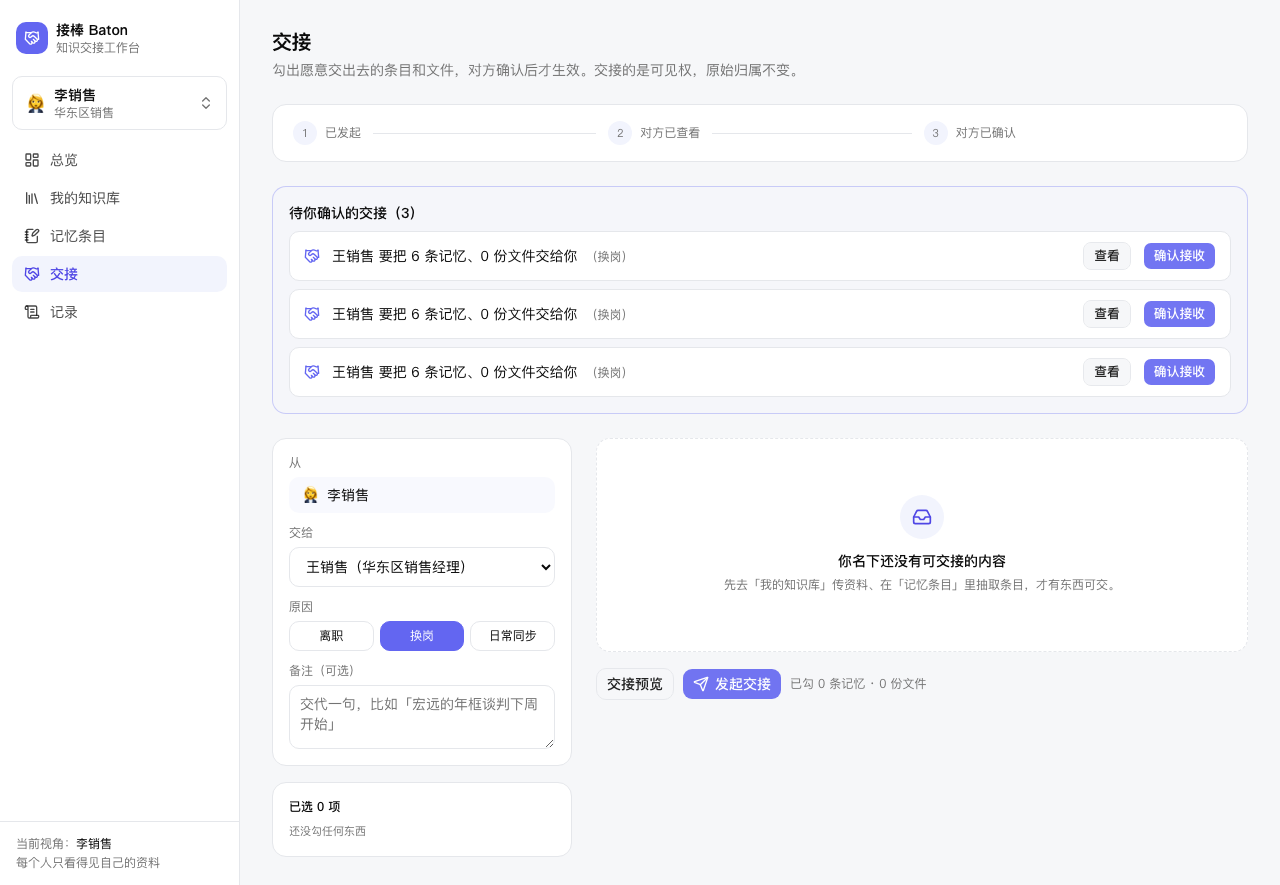
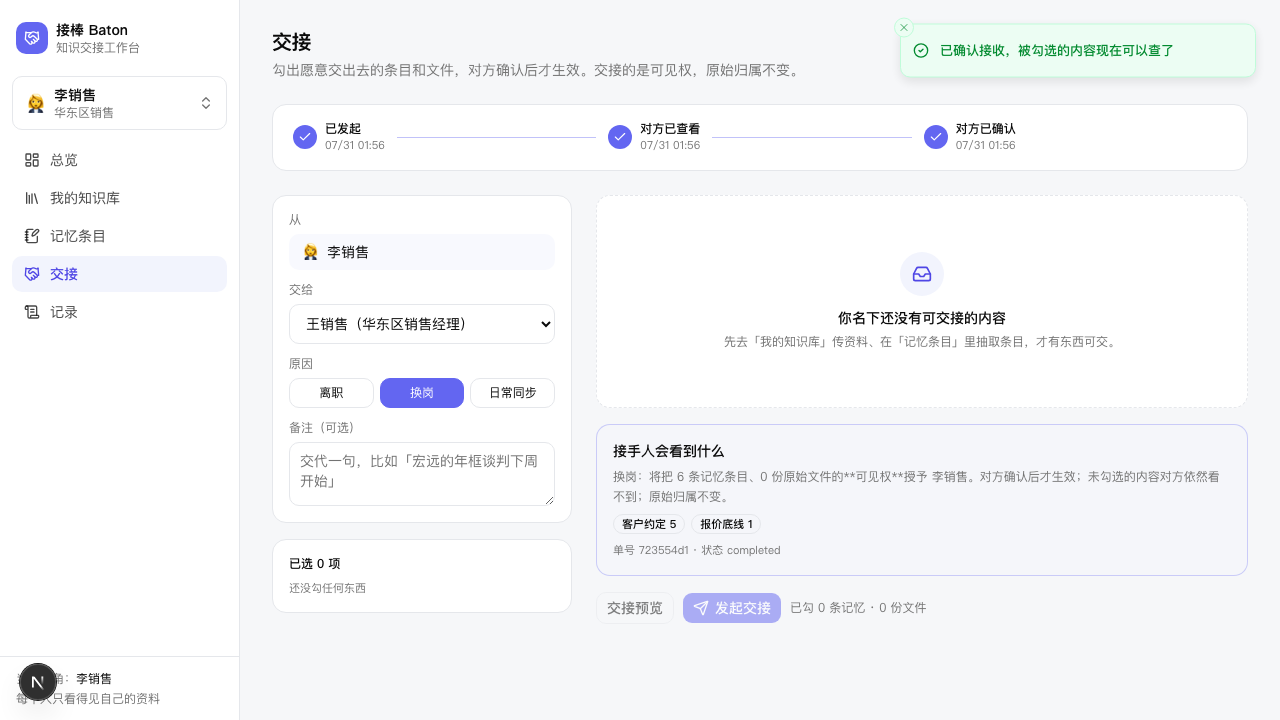
fix(005): AC-5.2.5 直接确认时补上 viewed_at，三步进度条才真的走完
confirm() 里若 viewed_at 为空就先补一次 viewed 再置 completed。
真实路径就是在待确认列表里直接点「确认接收」，没人会先点一下「查看」；
语义上「都确认了怎么可能没看过」也说不通。

同时把 E2E 里那条恒真的弱断言换成对 data-done 属性的逐步断言，
并用 expect.poll 重写待确认列表的清空循环（原来「先数个数再点」必然撞异步重取的竞态）。

bash scripts/gate.sh FINAL --> 全部通过
npm run e2e --> 17 passed

diff --git a/docs/night/playwright-html/index.html b/docs/night/playwright-html/index.html
@@ -46,4 +46,4 @@ Error generating stack: `+e.message+`
     <div id='root'></div>
   </body>
 </html>
[2 lines of base64/hex data omitted]

diff --git a/tests/e2e/handover.spec.ts b/tests/e2e/handover.spec.ts
@@ -91,12 +91,23 @@ test.describe("SPEC-005 交接闭环", () => {
 
     // 把历史遗留的待确认项也一并确认掉，让截图是一个干净的终态
     // （每跑一次 E2E 会新建一张单，不清的话待确认列表会越积越多）
-    for (let i = 0; i < 10; i++) {
-      const pendingItem = page.getByTestId("inbox-item").first();
-      if ((await page.getByTestId("inbox-item").count()) === 0) break;
-      await pendingItem.getByTestId("inbox-confirm").click();
-      await page.waitForTimeout(800);
-    }
+    // ⚠ 确认后列表是异步重取的，「先数个数再点」必然撞竞态（数到 1，点的时候已经没了）。
+    // 用轮询：每轮先看还剩几条，有就点一条，直到清空为止。
+    const inboxItems = page.getByTestId("inbox-item");
+    await expect
+      .poll(
+        async () => {
+          const n = await inboxItems.count();
+          if (n === 0) return 0;
+          const btn = inboxItems.first().getByTestId("inbox-confirm");
+          if (await btn.isVisible().catch(() => false)) {
+            await btn.click({ timeout: 5000 }).catch(() => {});
+          }
+          return inboxItems.count();
+        },
+        { timeout: 90000, intervals: [1000, 1000, 2000] },
+      )
+      .toBe(0);
     await page.screenshot({ path: `${SHOT}/p4-handover-done.png`, fullPage: true });
 
     // ---------- 4. 确认后：勾的看得到，没勾的看不到 ----------

diff --git a/lib/handover.ts b/lib/handover.ts
@@ -203,6 +203,10 @@ export async function confirm(handoverId: string, employeeId: string): Promise<H
   }
 
   await grantHandoverItems(handoverId);
+  // 接手人往往直接在待确认列表里点「确认接收」，不会先点一下「查看」。
+  // 这时候 viewed_at 是 null，三步进度条就成了 ✓ ✗ ✓——中间那步空着，读起来像出了错。
+  // 语义上也说不通：都确认了，怎么可能没看过。这里补上（AC-5.2.5）。
+  if (!h.viewedAt) await setHandoverStatus(handoverId, "viewed", "viewed_at");
   await setHandoverStatus(handoverId, "completed", "completed_at");
 
   // 离职原因的交接完成后，把发起人未交接的内容标「已随账号封存」（AC-5.3.2，⛔ 不删数据）

diff --git a/app/(console)/handover/page.tsx b/app/(console)/handover/page.tsx
@@ -210,7 +210,12 @@ export default function HandoverPage() {
         className={`mb-6 flex items-center gap-3 rounded-xl border border-border bg-card px-5 py-4 ${justDone ? "bt-pop" : ""}`}
       >
         {steps.map((s, i) => (
-          <div key={s.label} className="flex flex-1 items-center gap-3">
+          <div
+            key={s.label}
+            data-testid="handover-step"
+            data-done={s.done ? "true" : "false"}
+            className="flex flex-1 items-center gap-3"
+          >
             <div className="flex items-center gap-2">
               <span
                 className={`flex size-6 shrink-0 items-center justify-center rounded-full text-[11px] ${

diff --git a/specs/005-handover/CHANGELOG.md b/specs/005-handover/CHANGELOG.md
@@ -3,3 +3,21 @@
 > 规格发现有误要调整时，⛔ 不许直接改字覆盖原文，必须在此追加一条。
 > 每条变更必须早于对应代码 commit。
 
+## [2026-07-31 02:20] AC-5.2.5 的实现修正（AC 文字未变）
+
+- 现象：接手人在待确认列表里**直接**点「确认接收」（不先点「查看」）时，
+  `viewed_at` 保持 null，三步进度条变成 ✓ ✗ ✓ —— 中间那步空着
+- 改为：`confirm()` 里若 `viewed_at` 为空则先补一次 `viewed`，再置 `completed`
+- 原因：真实操作路径就是直接确认，没人会先点一下查看；语义上「都确认了怎么可能没看过」也说不通
+- 影响测试：新增 tests/integration/handover-flow.test.ts 的
+  「接手人不点查看直接确认时，对方已查看这一步也要点亮」，并断言补的时间落在提交与完成之间
+- 怎么发现的：E2E 产出的 p4-handover-done.png 截图里中间那步是灰的
+- 性质：产品缺陷修复
+
+## [2026-07-31 02:15] E2E 的一处弱断言修正
+
+- 原写法：`await expect(page.getByTestId("handover-steps")).toContainText("对方已确认")`
+- 问题：「对方已确认」是进度条上的**静态标签文字**，这条断言恒真，等于没断言——
+  正是反作弊清单里「E2E 只截图不断言」那一类的变体
+- 改为：给每一步加 `data-done` 属性，逐步断言它真的等于 `"true"`
+- 性质：修一条形同虚设的断言

diff --git a/docs/night/anti-cheat-report.md b/docs/night/anti-cheat-report.md
@@ -1,6 +1,6 @@
 # 反作弊扫描报告
 
-扫描时间：2026-07-31 01:41:20
+扫描时间：2026-07-31 01:58:48
 
 ---
 
